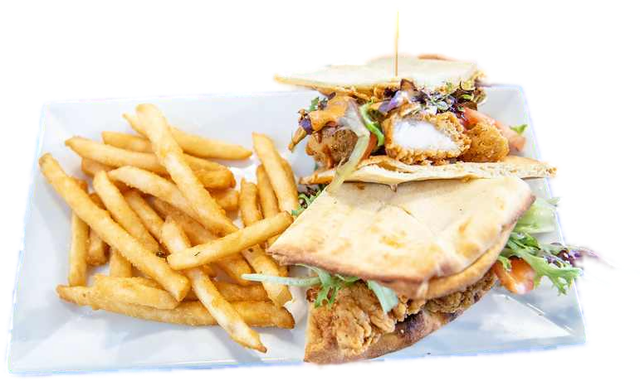
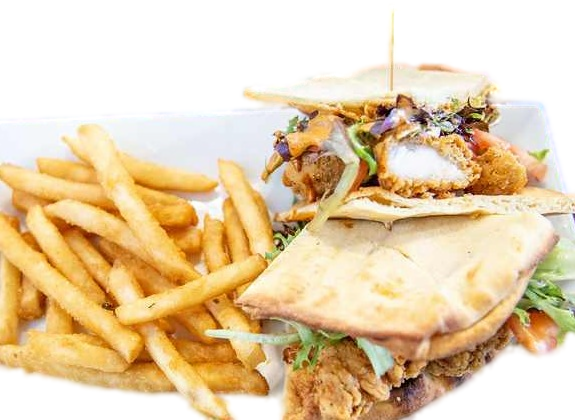
Apply CRO food-treatment fixes to More Than Pies section
- Sandwich cutout re-cropped tight around just the food (fries +
  sandwich), cutting through the plate on all sides instead of
  showing its complete rectangular edge. The old version read as an
  accidentally-cropped plate; this reads as a deliberate ingredient
  shot entering from the corner.
- Salad cutout now sits inside a circular frame (ring border + drop
  shadow) instead of floating as a raw cutout, per the reviewer's
  Option 1 -- makes the crop look intentional rather than accidental.
- Both images pulled ~25-50px closer to the center instead of sitting
  at the extreme corners, keeping the eye nearer the CTA.
- CTA copy changed from "Order Online" to "View Menu & Order" for
  this section (still same gold button, still links to the order
  page -- Brian's button-color rule only governs color/style, not
  literal text).
- Added a small supporting line under the CTA: "Pies, sandwiches,
  salads & more."
- Paragraph narrowed (560px -> 470px) and darkened slightly for
  contrast; margin between the paragraph and CTA tightened by 24px.

diff --git a/index.html b/index.html
@@ -257,20 +257,23 @@
 
   <!-- More Than Pies -->
   <div class="section-pad" style="position:relative; padding:90px 64px; text-align:center; overflow:hidden;">
-    <div class="offerings-float reveal dir-l" style="position:absolute; left:26px; bottom:26px; width:239px; z-index:1; pointer-events:none;">
+    <div class="offerings-float reveal dir-l" style="position:absolute; left:56px; bottom:40px; width:252px; z-index:1; pointer-events:none;">
       <img class="badge-float" src="img/sandwich-cutout.png" alt="Fried chicken sandwich and fries, one of the fresh dishes beyond the pie menu" style="width:100%; display:block; filter:drop-shadow(0 16px 18px rgba(17,17,17,0.3));">
     </div>
     <div style="position:relative; z-index:2;">
       <div class="label reveal">Our Offerings</div>
       <h2 class="serif reveal" style="font-size:40px; margin:10px 0 20px 0; color:#111111;">More Than Pies</h2>
-      <p class="reveal" style="font-size:15px; line-height:1.8; color:rgba(42,38,36,0.75); max-width:560px; margin:0 auto 32px auto;">Pies may be our specialty, but our menu goes beyond, featuring fresh sandwiches and crisp salads. Whether you crave something light or hearty, every dish is crafted to be as tasty as it is unforgettable.</p>
-      <a href="https://314pibar.com/order/" class="btn-primary" style="width:fit-content;">Order Online</a>
+      <p class="reveal" style="font-size:15px; line-height:1.8; color:rgba(42,38,36,0.86); max-width:470px; margin:0 auto 8px auto;">Pies may be our specialty, but our menu goes beyond, featuring fresh sandwiches and crisp salads. Whether you crave something light or hearty, every dish is crafted to be as tasty as it is unforgettable.</p>
+      <a href="https://314pibar.com/order/" class="btn-primary" style="width:fit-content;">View Menu &amp; Order</a>
+      <div class="reveal" style="margin-top:14px; font-size:12px; letter-spacing:0.03em; color:rgba(42,38,36,0.55);">Pies, sandwiches, salads &amp; more</div>
       <div class="offerings-float-mobile reveal" style="display:none; margin:28px auto 0 auto; width:170px;">
         <img class="badge-float" src="img/salad-cutout.png" alt="Go Greek salad, one of the fresh dishes beyond the pie menu" style="width:100%; display:block; filter:drop-shadow(0 12px 14px rgba(17,17,17,0.3));">
       </div>
     </div>
-    <div class="offerings-float reveal dir-r" style="position:absolute; right:0; top:-6px; width:280px; z-index:1; pointer-events:none;">
-      <img class="badge-float" src="img/salad-cutout.png" alt="Go Greek salad, one of the fresh dishes beyond the pie menu" style="width:100%; display:block; filter:drop-shadow(0 16px 18px rgba(17,17,17,0.3));">
+    <div class="offerings-float reveal dir-r" style="position:absolute; right:50px; top:36px; width:212px; height:212px; z-index:1; pointer-events:none;">
+      <div class="badge-float" style="width:100%; height:100%; border-radius:50%; overflow:hidden; box-shadow:0 14px 22px rgba(17,17,17,0.32); border:5px solid #f2efe9;">
+        <img src="img/salad-cutout.png" alt="Go Greek salad, one of the fresh dishes beyond the pie menu" style="width:100%; height:100%; object-fit:cover; display:block;">
+      </div>
     </div>
   </div>
 
